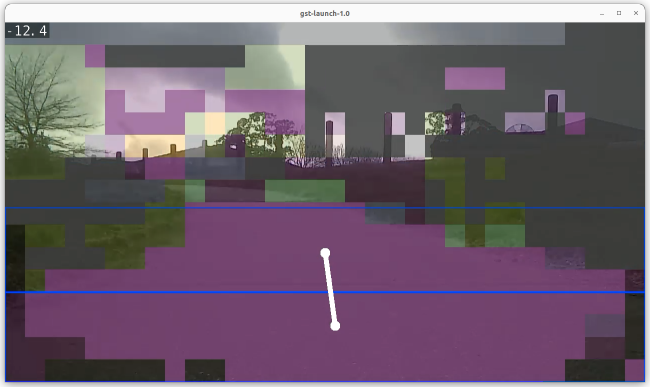
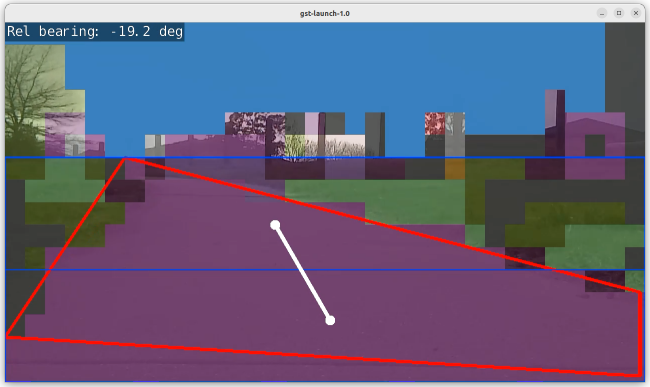
Put selected contour on rendered output

diff --git a/segmav.py b/segmav.py
@@ -181,8 +181,8 @@ class SegThread(threading.Thread):
             dim = (width, height)
             maskzoom = cv2.resize(mask, dim, interpolation=cv2.INTER_NEAREST)
 
-            kernel = np.ones((2, 2), np.uint8)
-            maskzoomblur = cv2.morphologyEx(maskzoom, cv2.MORPH_OPEN, kernel)
+            #kernel = np.ones((2, 2), np.uint8)
+            maskzoomblur = maskzoom #cv2.morphologyEx(maskzoom, cv2.MORPH_OPEN, kernel)
 
             # get extents of object
             # find contours in the binary image
@@ -194,8 +194,22 @@ class SegThread(threading.Thread):
                 self.output.Render(self.overlay)
                 continue
 
-            # get largest countour
+            # get (and show) largest countour. Need to simplify contour a bit to reduce noise
             contourLargest = max(contours, key=cv2.contourArea)
+            perimeter = cv2.arcLength(contourLargest, True)
+            contourLargest = cv2.approxPolyDP(contourLargest, 0.03 * perimeter, True)
+            for i in range(0, len(contourLargest)):
+                curpoint = contourLargest[i-1][0]
+                nextpoint = contourLargest[i][0]
+                overlayX1 = int((curpoint[0]/(scale_percent/100)) * (img_input.shape[1] / grid_width))
+                overlayY1 = int((curpoint[1]/(scale_percent/100)) * (img_input.shape[0] / grid_height))
+                overlayX2 = int((nextpoint[0]/(scale_percent/100)) * (img_input.shape[1] / grid_width))
+                overlayY2 = int((nextpoint[1]/(scale_percent/100)) * (img_input.shape[0] / grid_height))
+                cudaDrawLine(self.overlay,
+                             [overlayX1, overlayY1],
+                             [overlayX2, overlayY2],
+                             (255, 0, 0),
+                             3)  # (x1,y1), (x2,y2), color, thickness
 
             # Split ROI into horizontal strips
             x1, y1, w, h = cv2.boundingRect(contourLargest)
@@ -236,21 +250,21 @@ class SegThread(threading.Thread):
             # print("Len={0:.0f}, Bearing={1:.1f}".format(lenvec, np.rad2deg(bearing_rel)))
             # print("Grid is " + str(self.net.GetGridSize()))
             # print("Thres is " + str(1.6 * self.net.GetGridSize()[1]))
-            if lenvec < 1.6*self.net.GetGridSize()[1] and bearing_rel == np.clip(bearing_rel, -np.pi/4, np.pi/4):
+            if lenvec < 2*self.net.GetGridSize()[1] and bearing_rel == np.clip(bearing_rel, -np.pi/4, np.pi/4):
 
                 # and draw line between centroids
-                for i in range(len(centroids)-1):
+                for i in range(len(centroids)):
                     # cv2.line(maskzoomblur, centroids[i], centroids[i+1], (128, 128, 128), 2)
                     # Video overlay
-                    overlayX1 = int((centroids[i][0]/(scale_percent/100)) * (img_input.shape[1] / grid_width))
-                    overlayY1 = int((centroids[i][1]/(scale_percent/100)) * (img_input.shape[0] / grid_height))
-                    overlayX2 = int((centroids[i+1][0]/(scale_percent/100)) * (img_input.shape[1] / grid_width))
-                    overlayY2 = int((centroids[i+1][1]/(scale_percent/100)) * (img_input.shape[0] / grid_height))
+                    overlayX1 = int((centroids[i-1][0]/(scale_percent/100)) * (img_input.shape[1] / grid_width))
+                    overlayY1 = int((centroids[i-1][1]/(scale_percent/100)) * (img_input.shape[0] / grid_height))
+                    overlayX2 = int((centroids[i][0]/(scale_percent/100)) * (img_input.shape[1] / grid_width))
+                    overlayY2 = int((centroids[i][1]/(scale_percent/100)) * (img_input.shape[0] / grid_height))
                     cudaDrawLine(self.overlay,
                                  [overlayX1, overlayY1],
                                  [overlayX2, overlayY2],
                                  (255, 255, 255),
-                                 5)  # (x1,y1), (x2,y2), color, thickness
+                                 4)  # (x1,y1), (x2,y2), color, thickness
 
                 # Then average to smooth out over the last self.numAveraging readings.
                 with self.threadLock:
@@ -266,9 +280,9 @@ class SegThread(threading.Thread):
             #     if k == 27:
             #         break
             if self.getBearing() != None:
-                bearingstr = "{0:.1f}".format(self.getBearing())
+                bearingstr = "Rel bearing: {0:.1f} deg".format(self.getBearing())
             else:
-                bearingstr = "N/A"
+                bearingstr = "Rel bearing: N/A"
             self.font.OverlayText(self.overlay,
                                   img_input.shape[1],
                                   img_input.shape[0],
@@ -326,7 +340,7 @@ if __name__ == '__main__':
     parser.add_argument("--network", type=str, default="fcn-resnet18-cityscapes-1024x512", help="pre-trained model to load")
     parser.add_argument("--filter-mode", type=str, default="point", choices=["point", "linear"], help="filtering mode used during visualization, options are:\n  'point' or 'linear' (default: 'point')")
     parser.add_argument("--ignore-class", type=str, default="void", help="optional name of class to ignore in the visualization results (default: 'void')")
-    parser.add_argument("--alpha", type=float, default=64.0, help="alpha blending value to use during overlay, between 0.0 and 255.0 (default: 150.0)")
+    parser.add_argument("--alpha", type=float, default=80.0, help="alpha blending value to use during overlay, between 0.0 and 255.0 (default: 150.0)")
     parser.add_argument("--targetclass", type=int, default=3, help="The item class to track")
 
     is_headless = ["--headless"] if sys.argv[0].find('console.py') != -1 else [""]

diff --git a/mavsegmav.py b/mavsegmav.py
@@ -79,7 +79,7 @@ if __name__ == '__main__':
     parser.add_argument("--network", type=str, default="fcn-resnet18-cityscapes-1024x512", help="pre-trained model to load")
     parser.add_argument("--filter-mode", type=str, default="point", choices=["point", "linear"], help="filtering mode used during visualization, options are:\n  'point' or 'linear' (default: 'point')")
     parser.add_argument("--ignore-class", type=str, default="void", help="optional name of class to ignore in the visualization results (default: 'void')")
-    parser.add_argument("--alpha", type=float, default=10.0, help="alpha blending value to use during overlay, between 0.0 and 255.0 (default: 150.0)")
+    parser.add_argument("--alpha", type=float, default=80.0, help="alpha blending value to use during overlay, between 0.0 and 255.0 (default: 150.0)")
     parser.add_argument("--targetclass", type=int, default=3, help="The item class to track")
     parser.add_argument("--vel", type=float, default=0.6, help="Forward velocity setpoint")
 
